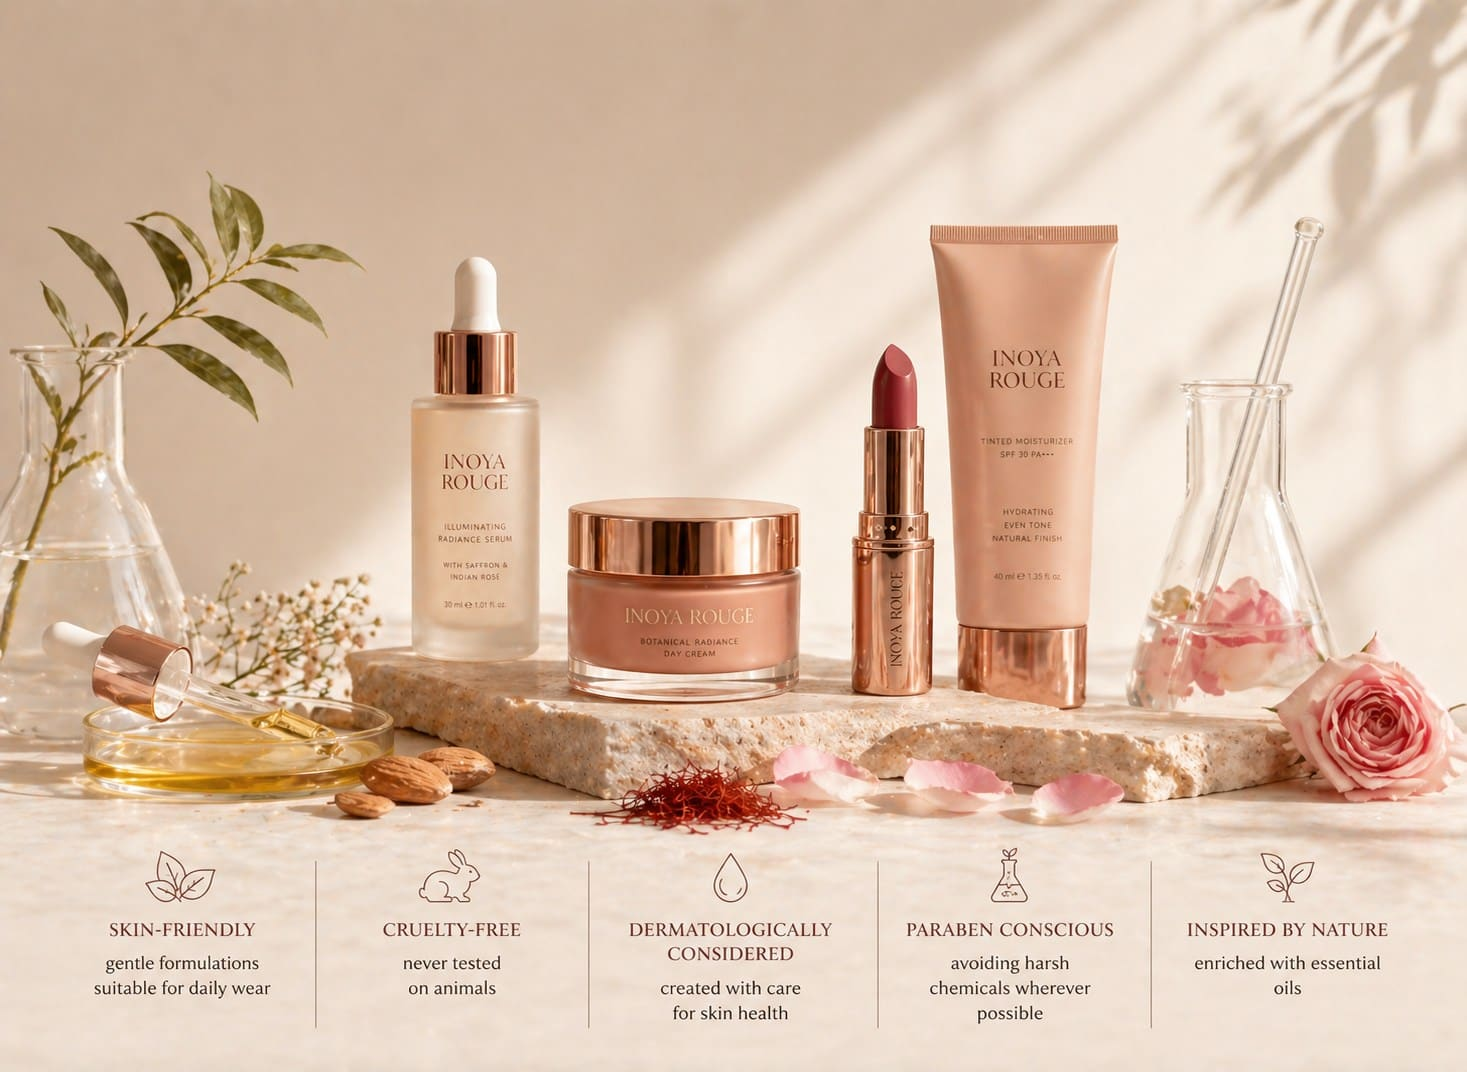
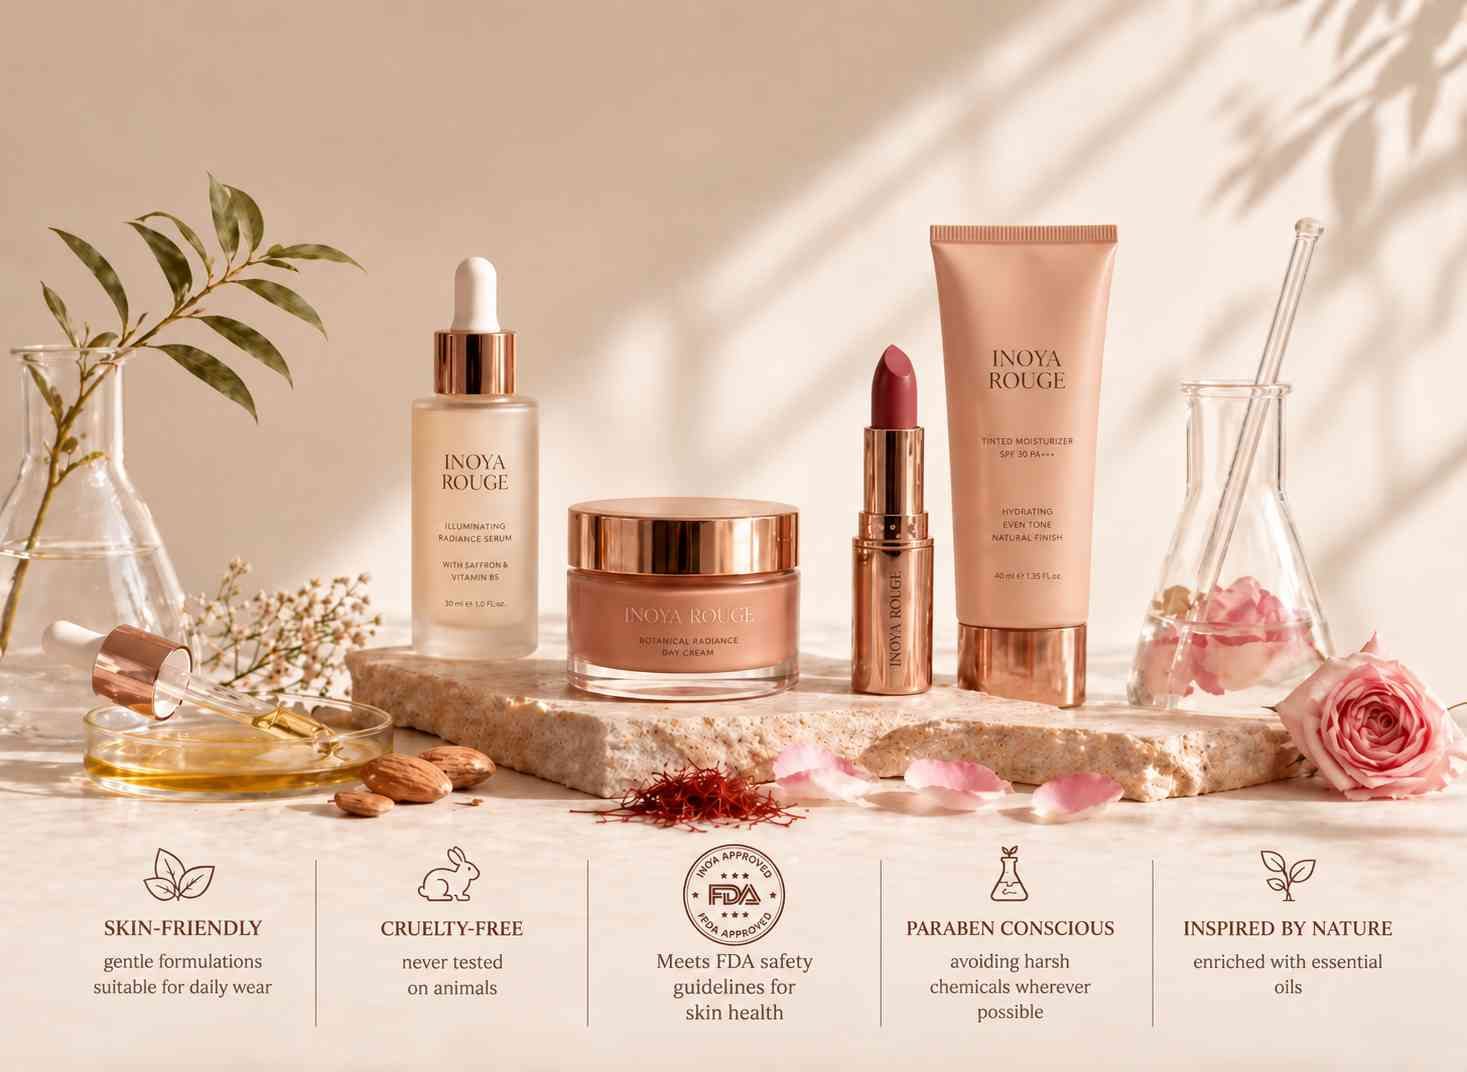
feat: nest shop collections under category, eyebrow shows collection name
Shop sidebar: replaced the standalone COLLECTION accordion with collections
nested inline under each category row. Only the active category expands;
clicking it again collapses it without changing the active filter. Mobile
pill row is unchanged.

ProductCard: eyebrow now shows the product's collection name, falling back
to category when no collection is set.

Includes the already-logged "Our Products" image update (about-us page).

diff --git a/src/components/public/ShopClient.tsx b/src/components/public/ShopClient.tsx
@@ -78,13 +78,29 @@ export default function ShopClient({
 
   // Filter Accordion State
   const [isCategoryOpen, setIsCategoryOpen] = useState(true)
-  const [isCollectionOpen, setIsCollectionOpen] = useState(true)
   const [isPriceOpen, setIsPriceOpen] = useState(true)
 
+  // Which category's nested collection list is expanded in the sidebar.
+  // Only one is ever open; clicking the open one collapses it.
+  const [openCategory, setOpenCategory] = useState<Category | null>(
+    initialCategory === 'All' ? null : initialCategory,
+  )
+
+  // Collections grouped by their category, so each category row can render
+  // its own nested dropdown in the sidebar.
+  const collectionsByCategory = useMemo(() => {
+    const map: Record<string, Collection[]> = {}
+    for (const c of collections) {
+      (map[c.category] ??= []).push(c)
+    }
+    return map
+  }, [collections])
+
+  // Still consumed by the mobile pill row.
   const subFilters = useMemo(() => {
     if (activeCategory === 'All') return []
-    return collections.filter((c) => c.category === activeCategory)
-  }, [collections, activeCategory])
+    return collectionsByCategory[activeCategory] ?? []
+  }, [collectionsByCategory, activeCategory])
 
   const filtered = useMemo(() => {
     let result = products
@@ -115,8 +131,15 @@ export default function ShopClient({
   }, [products, activeCategory, activeCollection, sortBy])
 
   function handleCategoryChange(cat: Category) {
+    // Re-clicking the category that's already open just collapses its list,
+    // leaving the active filter alone.
+    if (cat === activeCategory) {
+      setOpenCategory(prev => (prev === cat ? null : cat))
+      return
+    }
     setActiveCategory(cat)
     setActiveCollection(null)
+    setOpenCategory(cat === 'All' ? null : cat)
   }
 
   const currentHero = heroContent[activeCategory] || heroContent.All
@@ -383,50 +406,65 @@ export default function ShopClient({
                 </div>
                 {isCategoryOpen && (
                   <div className="flex flex-col gap-3.5 overflow-hidden transition-all">
-                    {categories.map(cat => (
-                      <button
-                        key={cat}
-                        onClick={() => handleCategoryChange(cat)}
-                        className={`text-left text-[13px] font-sans tracking-wide transition-colors ${activeCategory === cat ? 'text-burgundy font-medium' : 'text-burgundy/50 hover:text-burgundy'}`}
-                      >
-                        {categoryLabels[cat]}
-                      </button>
-                    ))}
+                    {categories.map(cat => {
+                      const catCollections = collectionsByCategory[cat] ?? []
+                      const hasCollections = cat !== 'All' && catCollections.length > 0
+                      const isExpanded = cat === openCategory && hasCollections
+
+                      return (
+                        <div key={cat} className="flex flex-col">
+                          <button
+                            onClick={() => handleCategoryChange(cat)}
+                            className={`flex items-center justify-between w-full text-left text-[13px] font-sans tracking-wide transition-colors ${activeCategory === cat ? 'text-burgundy font-medium' : 'text-burgundy/50 hover:text-burgundy'}`}
+                          >
+                            <span>{categoryLabels[cat]}</span>
+                            {hasCollections && (
+                              <svg
+                                className={`text-burgundy/50 transition-transform ${isExpanded ? 'rotate-180' : ''}`}
+                                width="14" height="14" viewBox="0 0 24 24" fill="none" stroke="currentColor"
+                              >
+                                <path d="M6 9l6 6 6-6" />
+                              </svg>
+                            )}
+                          </button>
+
+                          {/* Nested collections for the active category */}
+                          <AnimatePresence initial={false}>
+                            {isExpanded && (
+                              <motion.div
+                                key={`${cat}-collections`}
+                                initial={{ height: 0, opacity: 0 }}
+                                animate={{ height: 'auto', opacity: 1 }}
+                                exit={{ height: 0, opacity: 0 }}
+                                transition={{ duration: 0.35, ease: [0.16, 1, 0.3, 1] }}
+                                className="overflow-hidden"
+                              >
+                                <div className="flex flex-col gap-3 mt-3 pl-4 border-l border-burgundy/10">
+                                  <button
+                                    onClick={() => setActiveCollection(null)}
+                                    className={`text-left text-[12px] font-sans tracking-wide transition-colors ${activeCollection === null ? 'text-burgundy font-medium' : 'text-burgundy/50 hover:text-burgundy'}`}
+                                  >
+                                    ALL {cat.toUpperCase()}
+                                  </button>
+                                  {catCollections.map(col => (
+                                    <button
+                                      key={col.id}
+                                      onClick={() => setActiveCollection(col.name)}
+                                      className={`text-left text-[12px] font-sans tracking-wide transition-colors ${activeCollection === col.name ? 'text-burgundy font-medium' : 'text-burgundy/50 hover:text-burgundy'}`}
+                                    >
+                                      {col.name.toUpperCase()}
+                                    </button>
+                                  ))}
+                                </div>
+                              </motion.div>
+                            )}
+                          </AnimatePresence>
+                        </div>
+                      )
+                    })}
                   </div>
                 )}
               </div>
-
-              {/* Collections filter */}
-              {subFilters.length > 0 && (
-                <div className="mb-8">
-                  <div
-                    className="flex items-center justify-between border-b border-burgundy/10 pb-3 mb-4 cursor-pointer"
-                    onClick={() => setIsCollectionOpen(!isCollectionOpen)}
-                  >
-                    <h3 className="text-[13px] font-sans tracking-widest text-burgundy font-medium">COLLECTION</h3>
-                    <svg className={`text-burgundy/50 transition-transform ${isCollectionOpen ? 'rotate-180' : ''}`} width="14" height="14" viewBox="0 0 24 24" fill="none" stroke="currentColor"><path d="M6 9l6 6 6-6" /></svg>
-                  </div>
-                  {isCollectionOpen && (
-                    <div className="flex flex-col gap-3.5 overflow-hidden transition-all">
-                      <button
-                        onClick={() => setActiveCollection(null)}
-                        className={`text-left text-[13px] font-sans tracking-wide transition-colors ${activeCollection === null ? 'text-burgundy font-medium' : 'text-burgundy/50 hover:text-burgundy'}`}
-                      >
-                        ALL {activeCategory.toUpperCase()}
-                      </button>
-                      {subFilters.map(col => (
-                        <button
-                          key={col.id}
-                          onClick={() => setActiveCollection(col.name)}
-                          className={`text-left text-[13px] font-sans tracking-wide transition-colors ${activeCollection === col.name ? 'text-burgundy font-medium' : 'text-burgundy/50 hover:text-burgundy'}`}
-                        >
-                          {col.name.toUpperCase()}
-                        </button>
-                      ))}
-                    </div>
-                  )}
-                </div>
-              )}
 
               {/* Filter Section Removed - Waiting for new selection */}
             </aside>

diff --git a/src/components/public/ProductCard.tsx b/src/components/public/ProductCard.tsx
@@ -50,9 +50,9 @@ export default function ProductCard({ product, variant = 'default' }: { product:
           </div>
 
           <div className="flex flex-col mt-4 px-1">
-            {/* Sub-category / Type */}
+            {/* Collection name, falling back to category */}
             <div className="text-[10px] font-sans tracking-[2px] text-gray-500 uppercase mb-1">
-              {product.category}
+              {product.collection || product.category}
             </div>
 
             {/* Product Name — Playfair Display regular (font-display), left aligned */}
@@ -208,7 +208,7 @@ export default function ProductCard({ product, variant = 'default' }: { product:
         )}
       </div>
       <div className="mt-4 space-y-1">
-        <p className="text-[10px] text-gray-400 uppercase tracking-widest">{product.category}</p>
+        <p className="text-[10px] text-gray-400 uppercase tracking-widest">{product.collection || product.category}</p>
         <h3 className="font-serif text-lg leading-tight">{product.name}</h3>
         <div className="flex items-center justify-between pt-1">
           {priceInfo.hasDiscount ? (

diff --git a/UPDATES.md b/UPDATES.md
@@ -1,3 +1,89 @@
+## 2026-09-14 — Nested collection dropdowns in shop sidebar + collection-name product eyebrow
+
+**Status:** DONE
+
+Two related changes to how collections surface on `/shop`:
+
+**1. Sidebar restructure.** The desktop sidebar had two separate stacked
+accordion blocks — `CATEGORY`, and a disconnected `COLLECTION` block that
+only appeared below it once a category was selected. That second block read
+as an unrelated "tab" and hid the collection→category relationship. Removed
+it entirely; each category's collections now nest as an inline indented
+dropdown directly under that category's own row in the CATEGORY list.
+
+Behaviour: only the *active* category expands (clicking another category
+switches the filter and moves the expansion). This needed no new state —
+`handleCategoryChange` already resets `activeCollection`, so expansion is
+driven by `activeCategory`. Dead `isCollectionOpen` state removed.
+
+Mobile is deliberately unchanged — there is no sidebar at mobile width, so
+the horizontal pill row remains the mobile collection picker.
+
+**2. Product card eyebrow.** The small uppercase line above the product name
+printed the category (`LIPS`). It now prints the collection name (`KYSMÉ`),
+falling back to the category when `product.collection` is null/empty. Used
+`||` rather than `??` so an empty string also falls back. No query, type, or
+DB change was needed — `products.collection` is a denormalized name string
+already present on every card via the existing `select('*')`.
+
+### Files touched
+- `src/components/public/ShopClient.tsx` — nested collections under each category; removed standalone COLLECTION block and `isCollectionOpen` state
+- `src/components/public/ProductCard.tsx` — eyebrow shows collection with category fallback (shop + default variants; curated has no eyebrow)
+
+### Follow-up fix — dropdown would not close
+First pass tied expansion to `activeCategory` alone, so clicking the already-open
+category just re-set the same value and the list could never be collapsed.
+Added explicit `openCategory` state: clicking the open category toggles it shut
+(leaving the active filter untouched), while switching category moves the
+expansion and still keeps only one open at a time. All three category entry
+points (sidebar, mobile dropdown, empty-state reset) route through
+`handleCategoryChange`, so they stay in sync. Click sequences simulated and
+verified: open→collapse→reopen, switch category, and ALL PRODUCTS.
+
+### Verified
+- `npx tsc --noEmit` clean; `npm run build` succeeds (all shop routes compile).
+- Rendered `/shop/lips` HTML confirms: single `CATEGORY` heading, no standalone
+  `COLLECTION` block, LIPS active with caret rotated and its collections
+  (`ALL LIPS`, `LIPSTICK`, `LIQUID LIPSTICK`, `LIPBALM`) nested in an indented
+  `pl-4 border-l` list directly beneath it.
+- `ALL PRODUCTS` renders no caret and no nested list, as intended.
+- Eyebrow renders `Liquid Lipstick` / `Lipstick` / `Lipbalm` on the three live
+  products instead of `LIPS`. Fallback expression unit-checked against null,
+  empty-string and undefined — all fall back to category (`||` not `??`, so
+  empty string is covered).
+- Mobile pill row unchanged and still rendering its four pills.
+
+### Note on current data
+Only the **Lips** category has collection rows (Lipstick, Liquid Lipstick,
+Lipbalm — created 2026-09-14). Eyes and Face have none, so those categories
+correctly render with no caret and no dropdown until collections are added for
+them in the admin. This is the intended empty state, not a bug.
+
+---
+
+## 2026-09-14 — Update "Our Products" image (about-us page, mobile + desktop)
+
+**Status:** DONE
+
+User replaced `public/images/mobile images/our products mobile.jpeg` with a
+new product flat-lay image (bottle/jar/lipstick with 5 trust-badge icons:
+Skin-Friendly, Cruelty-Free, FDA safety, Paraben Conscious, Inspired by
+Nature). Filename unchanged, so it was already live on mobile via the
+existing `mobileSrc` reference at
+`src/app/(public)/about-us/page.tsx:290` (Row component, "Our Products"
+section) — no code changes needed for the mobile swap.
+
+Desktop was still showing the old May 3 image at
+`public/images/about us/our products.jpeg` (separate file, referenced via
+`src` at `src/app/(public)/about-us/page.tsx:289`). Per user confirmation,
+copied the same new image over the desktop file so both breakpoints match.
+
+### Files touched
+- `public/images/mobile images/our products mobile.jpeg` — new image (already in place, user-supplied)
+- `public/images/about us/our products.jpeg` — overwritten with same new image to match mobile
+
+---
+
 ## 2026-09-14 — Update mobile hero image asset (4th time, new sketch/watercolor style)
 
 **Status:** DONE
